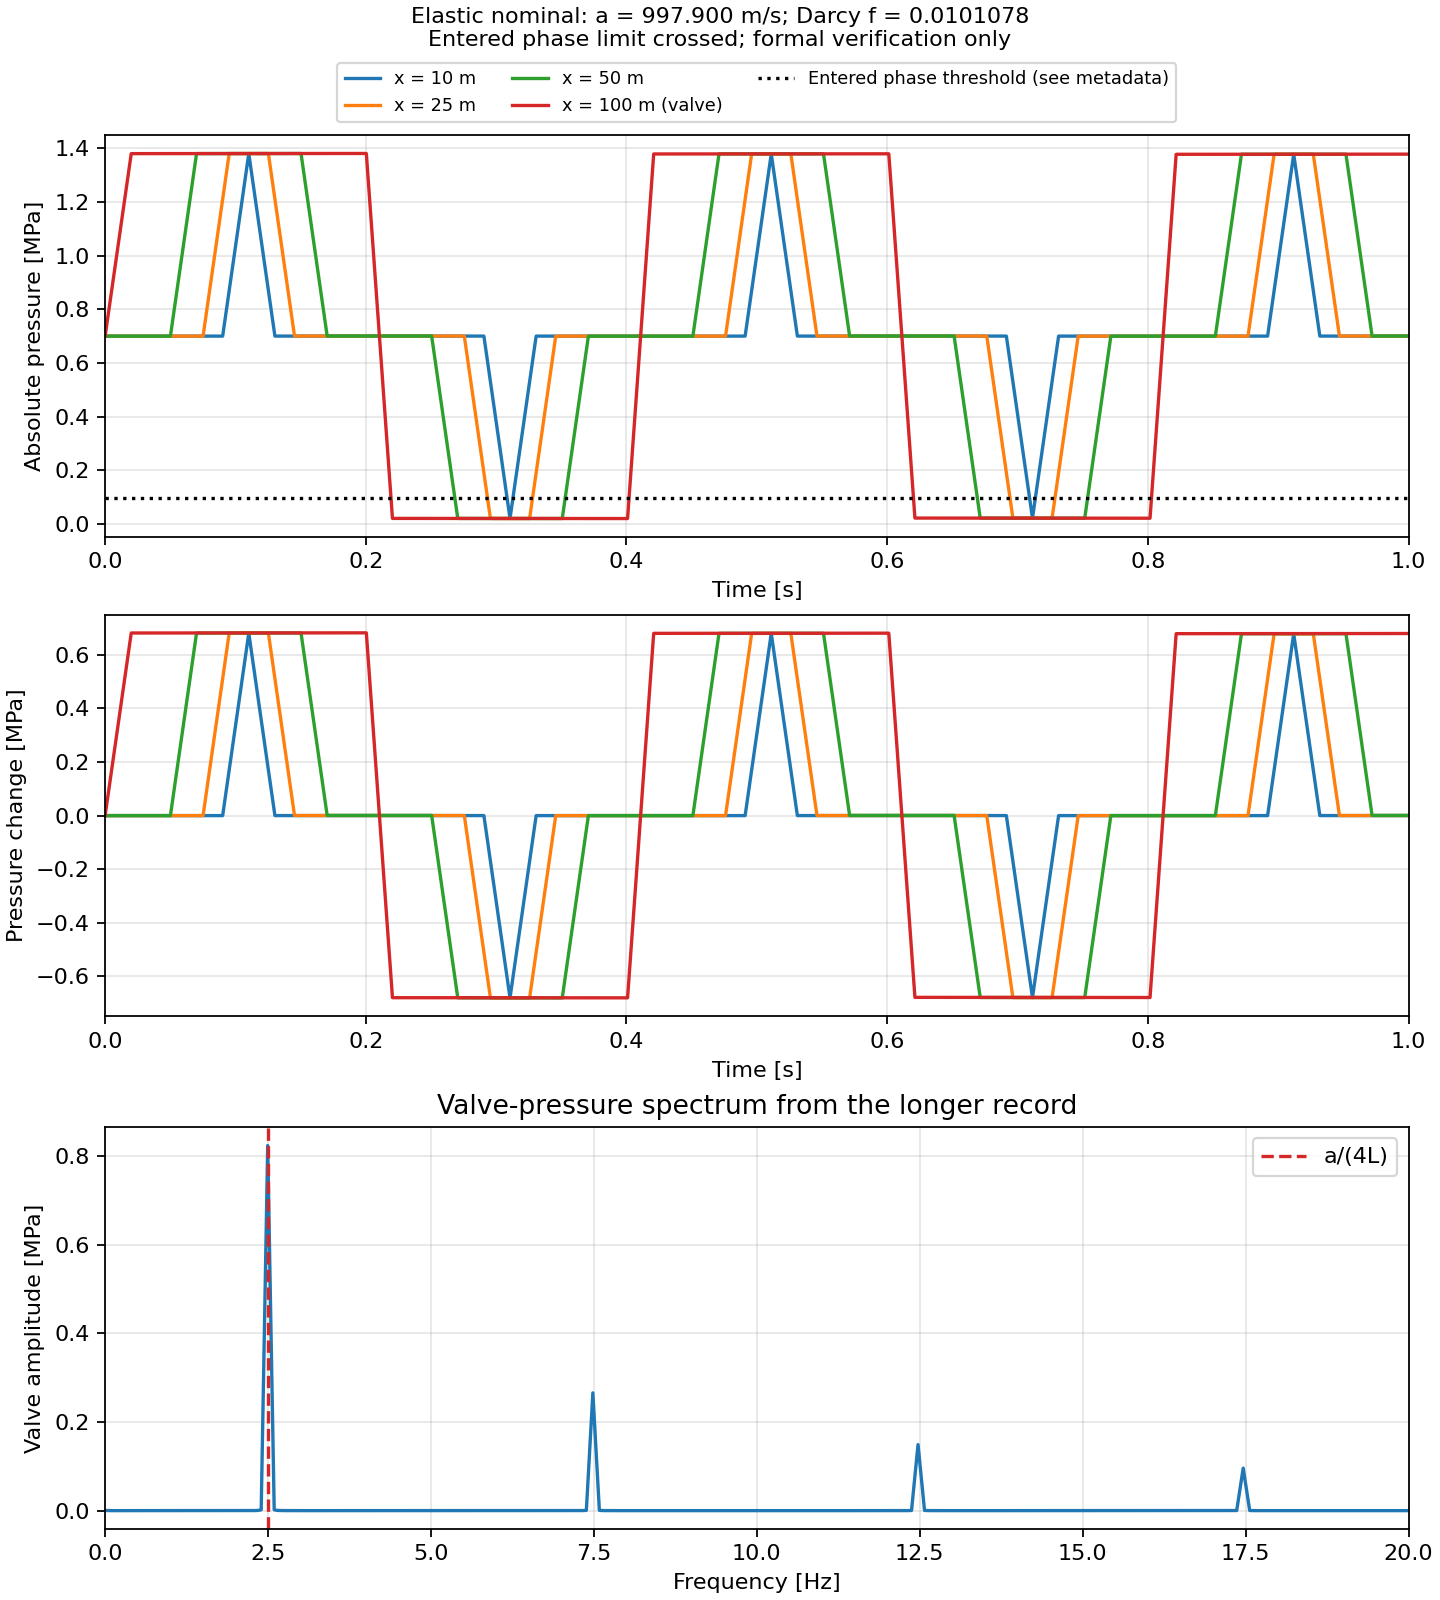
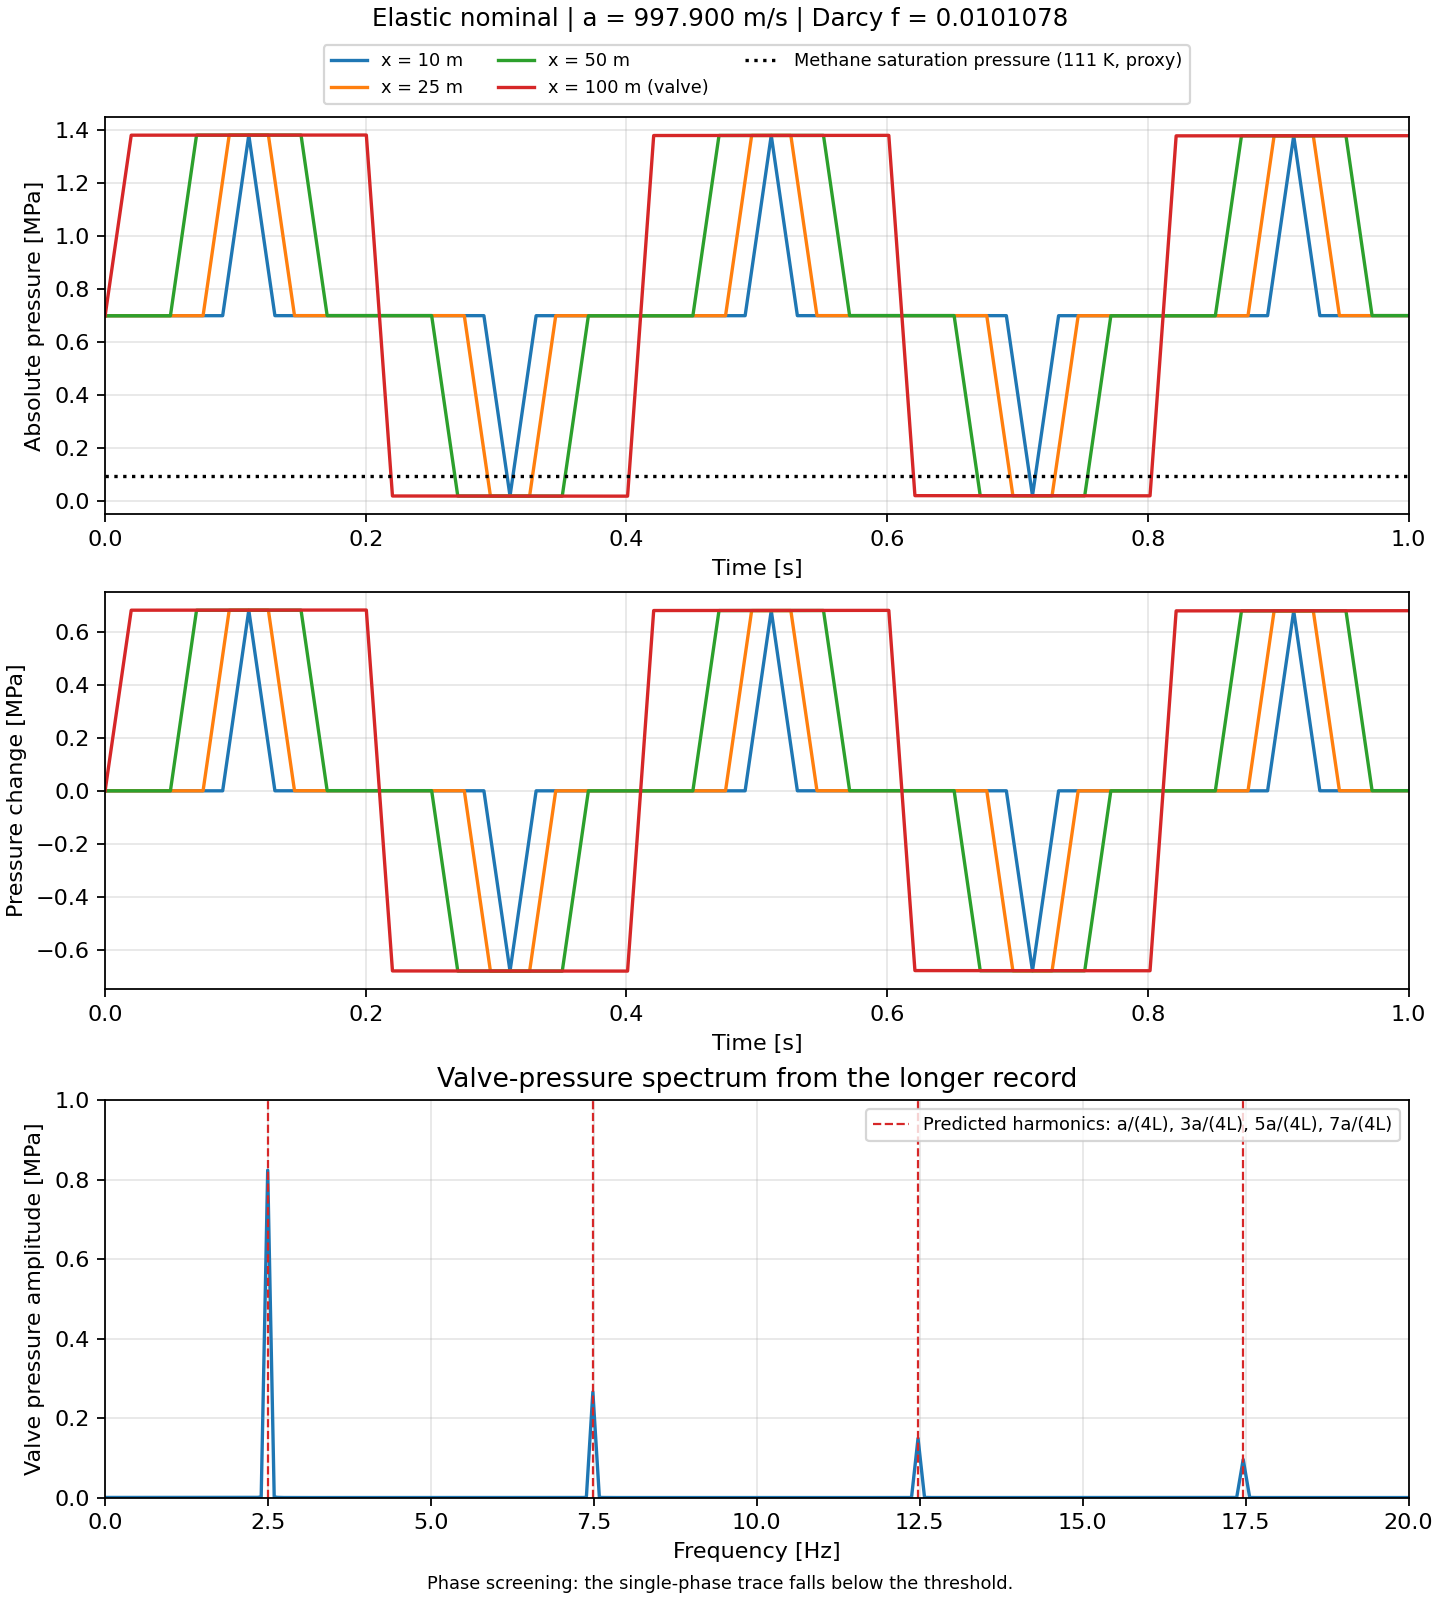
Refresh Stage 1 plots and publish standalone valve and theory figures

diff --git a/docs/VALIDATION.md b/docs/VALIDATION.md
@@ -83,3 +83,11 @@ The frictionless MOC and analytical finite ramps agree at the recorded N = 320 s
 The plotted spectrum uses the original 50-period Hann-windowed, mean-removed record. The 0–3 s panel is a visual crop. The second FFT checks the same nominal simulations over 0.5–17.5 s with approximately 0.059 Hz native bin spacing. Its peak is refined with a parabola through three adjacent log-amplitude bins. The crossing estimate uses the median time between equivalent upward crossings of the reservoir pressure. Harmonic amplitudes are single-sided valve-pressure amplitudes at the bins nearest the first four odd harmonic targets. The FFT precision represents estimator agreement for this formal simulation. See Harris (1978) for finite records and spectral windows, as cited in SOURCES.md.
 
 The closure figure compares each model over a common 2 s window, ending at the last full time step. The original longer 0.50 s scenario remains in the existing sensitivity table. The 0.02 s and 0.10 s nominal scenarios cross the pure-methane surrogate at 111 K. The 0.25 s and 0.50 s scenarios stay above that surrogate over the comparison window. Route-specific loading and an LNG-composition phase assessment are still needed to establish an operating closure time. Use the valve spectrum as a benchmark when interpreting the eventual local bend-force spectra.
+
+## Figure updates — 25 November 2026
+
+The peak-rise plot reports the first valve pressure rise before the reflected wave returns. The mesh-error panels define both denominators. First-rise difference is relative to the reference mesh's first rise. The maximum waveform difference is relative to the Joukowsky rise and covers matching times in the first second at all four stations. For the nominal bulk case, N = 160 differs from N = 320 by 0.00027% in peak rise and 0.568% in the waveform metric. These are numerical reference comparisons. The frictionless theory comparison is separate and shows how first-detection times differ from the theoretical front times by one time step.
+
+Bulk figures use c for the supplied sound speed and elastic figures use a for the effective wave speed. The spectral markers show the first four predicted odd harmonics. The 0–1 MPa display includes every peak in the ten benchmark cases. The methane proxy label retains the temperature and phase basis. The figure notes and threshold-crossing shading identify the single-phase continuation.
+
+All 20 tests passed. The full researched and legacy runners and both presentation plotting commands completed using Python 3.12.14, NumPy 2.3.5 and Matplotlib 3.10.8. The tracked CSV contents, benchmark case results and phase flags reproduced exactly. The updated verification report records the current source hashes and code revision.
